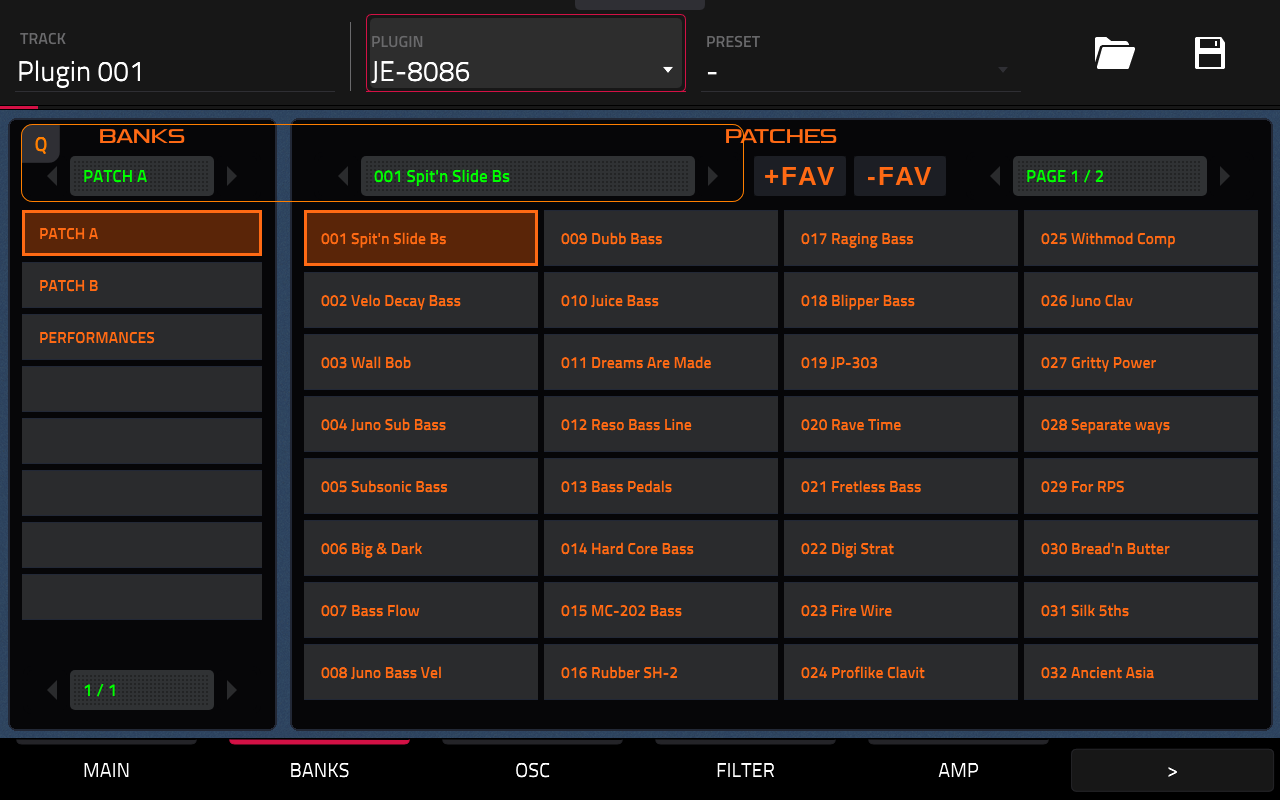
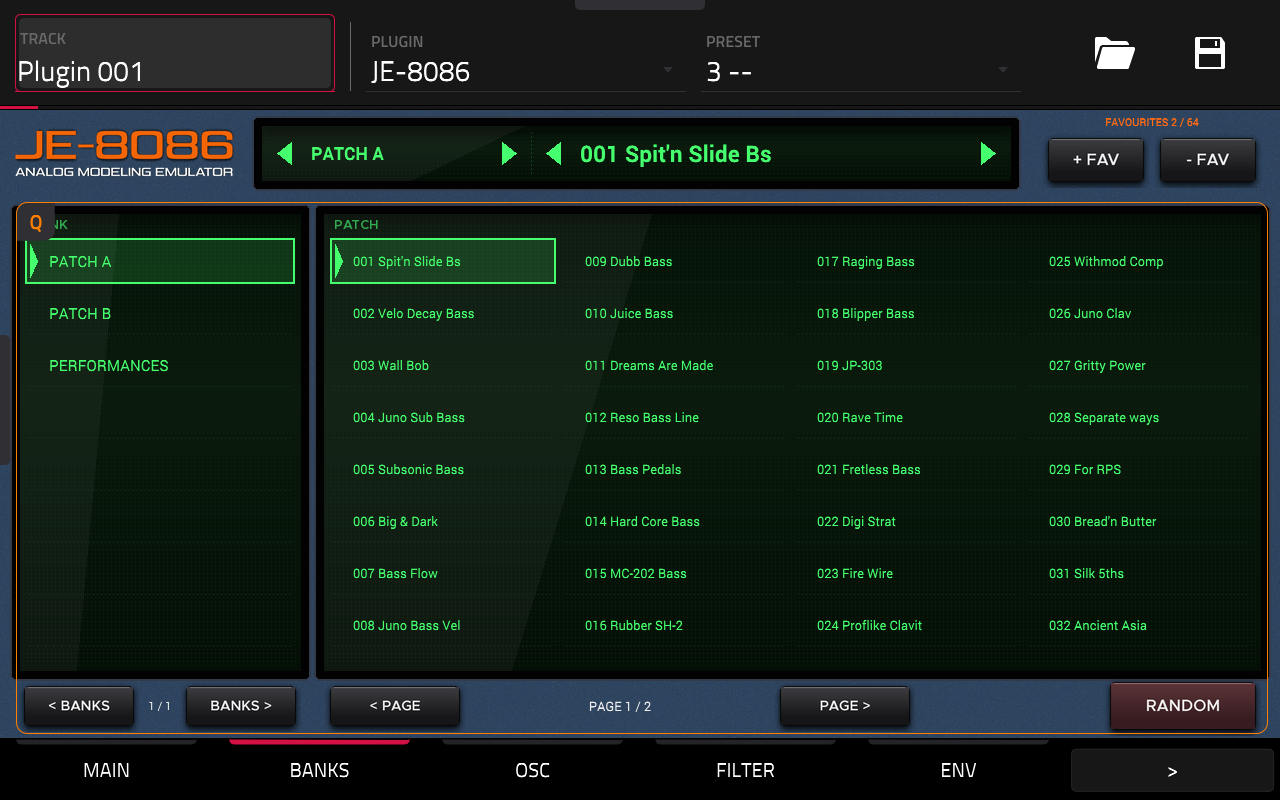
README: BANKS screenshot from the Live III; BANK caption clear of the Q-Link badge
Claude-Session: https://claude.ai/code/session_01V7tb5vQsFWn1Eop6C9RuQw

diff --git a/tools/skin_pages.py b/tools/skin_pages.py
@@ -355,7 +355,7 @@ def banks_page():
     header(p)
     p.lcd(20, 104, 300, 560)
     p.lcd(324, 104, 1260, 560)
-    art.lcd_caption(p.d, 30, 108, "BANK")
+    art.lcd_caption(p.d, 56, 108, "BANK")   # clear of the Q-Link badge in the corner
     names = ["PATCH A", "PATCH B", "PERFORMANCES", "MY BANK"]
     for i in range(8):
         y = 128 + i * 52

diff --git a/README.md b/README.md
@@ -27,7 +27,7 @@ The ARM64 speed-ups come from [schwung-je8086](https://github.com/charlesvestal/
 - **Any MIDI channel:** the track's channel doesn't matter.
 - **Saved with your project:** the current sound and every edit come back when the project is reopened. Projects saved with 0.1.x still load.
 
-![BANKS page](docs/skin-preview/banks.png)
+![BANKS page on an MPC Live III](docs/screenshots/banks.png)
 
 ## Requirements
 - An MPC Gen2 standalone device (aarch64, e.g. MPC Live III) running **MPC OS 3.10 or later**. Gen1 devices and the Force aren't supported:
